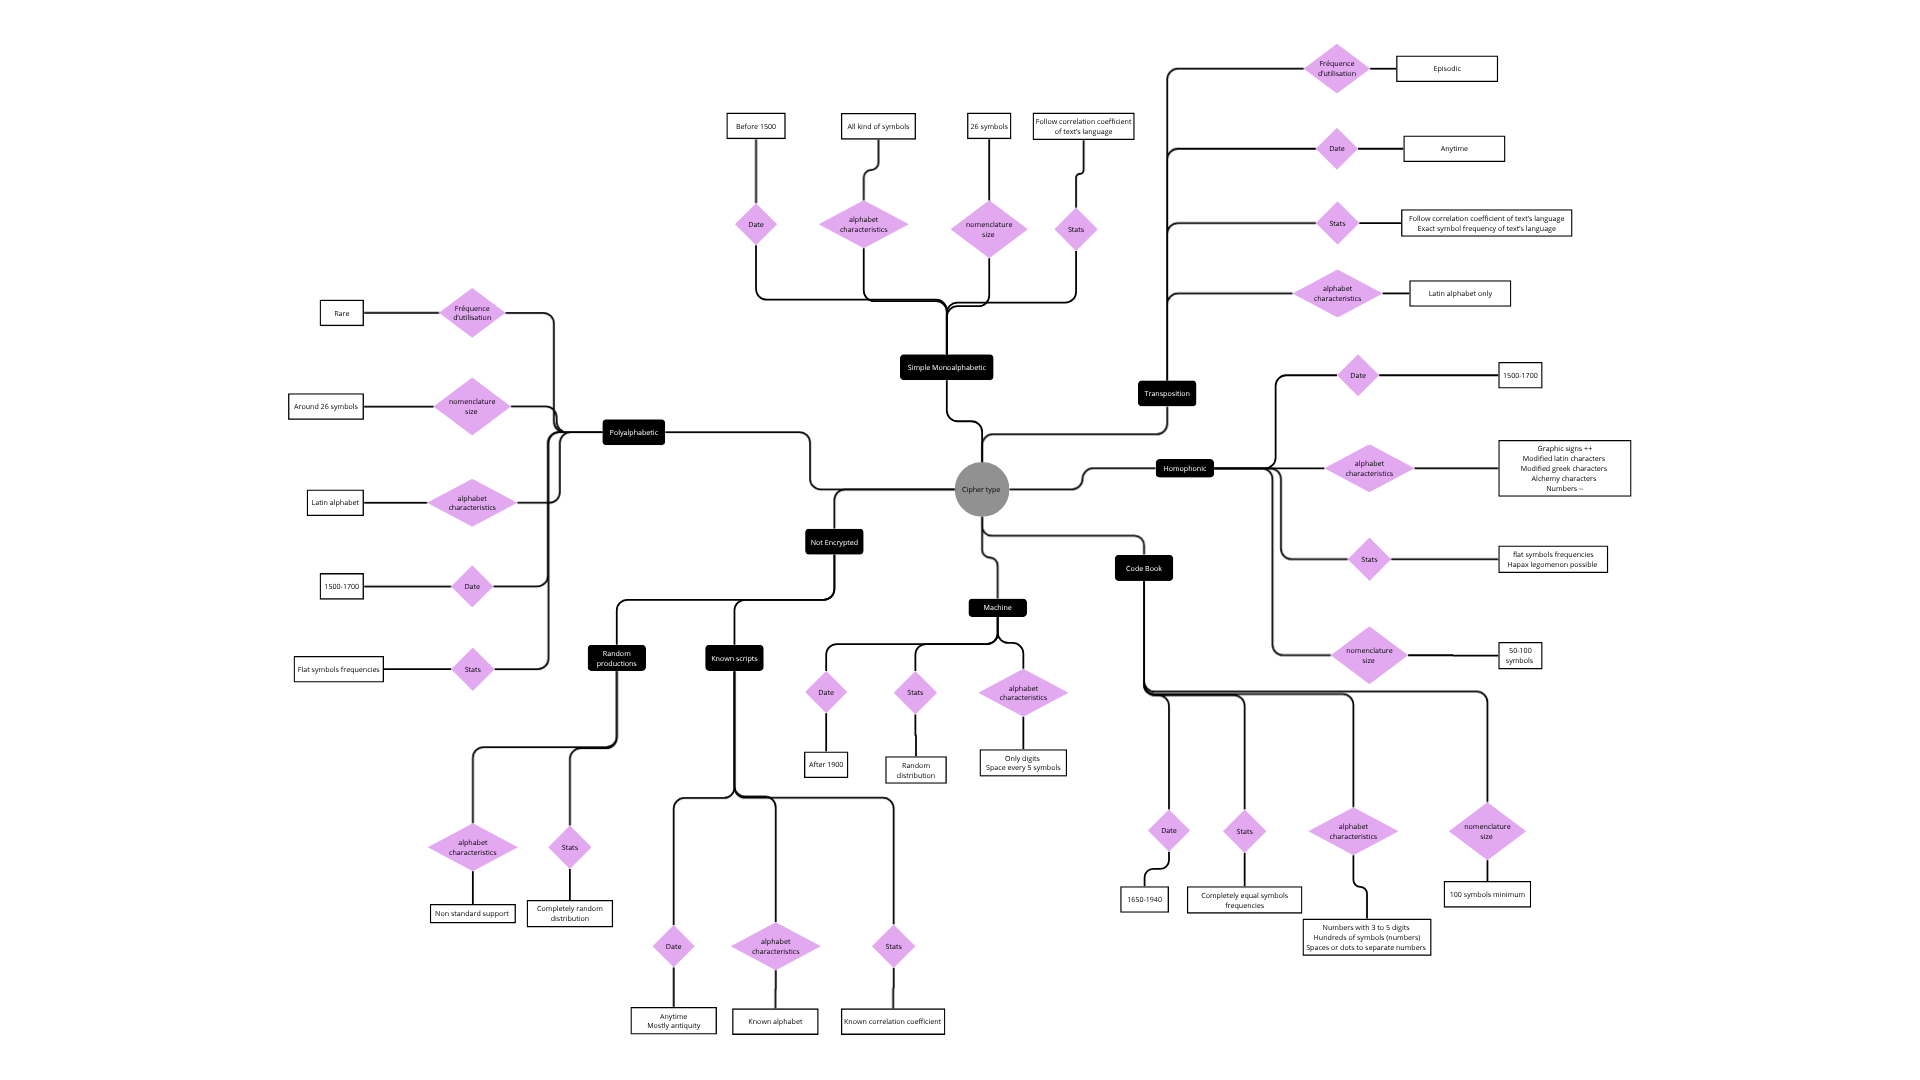
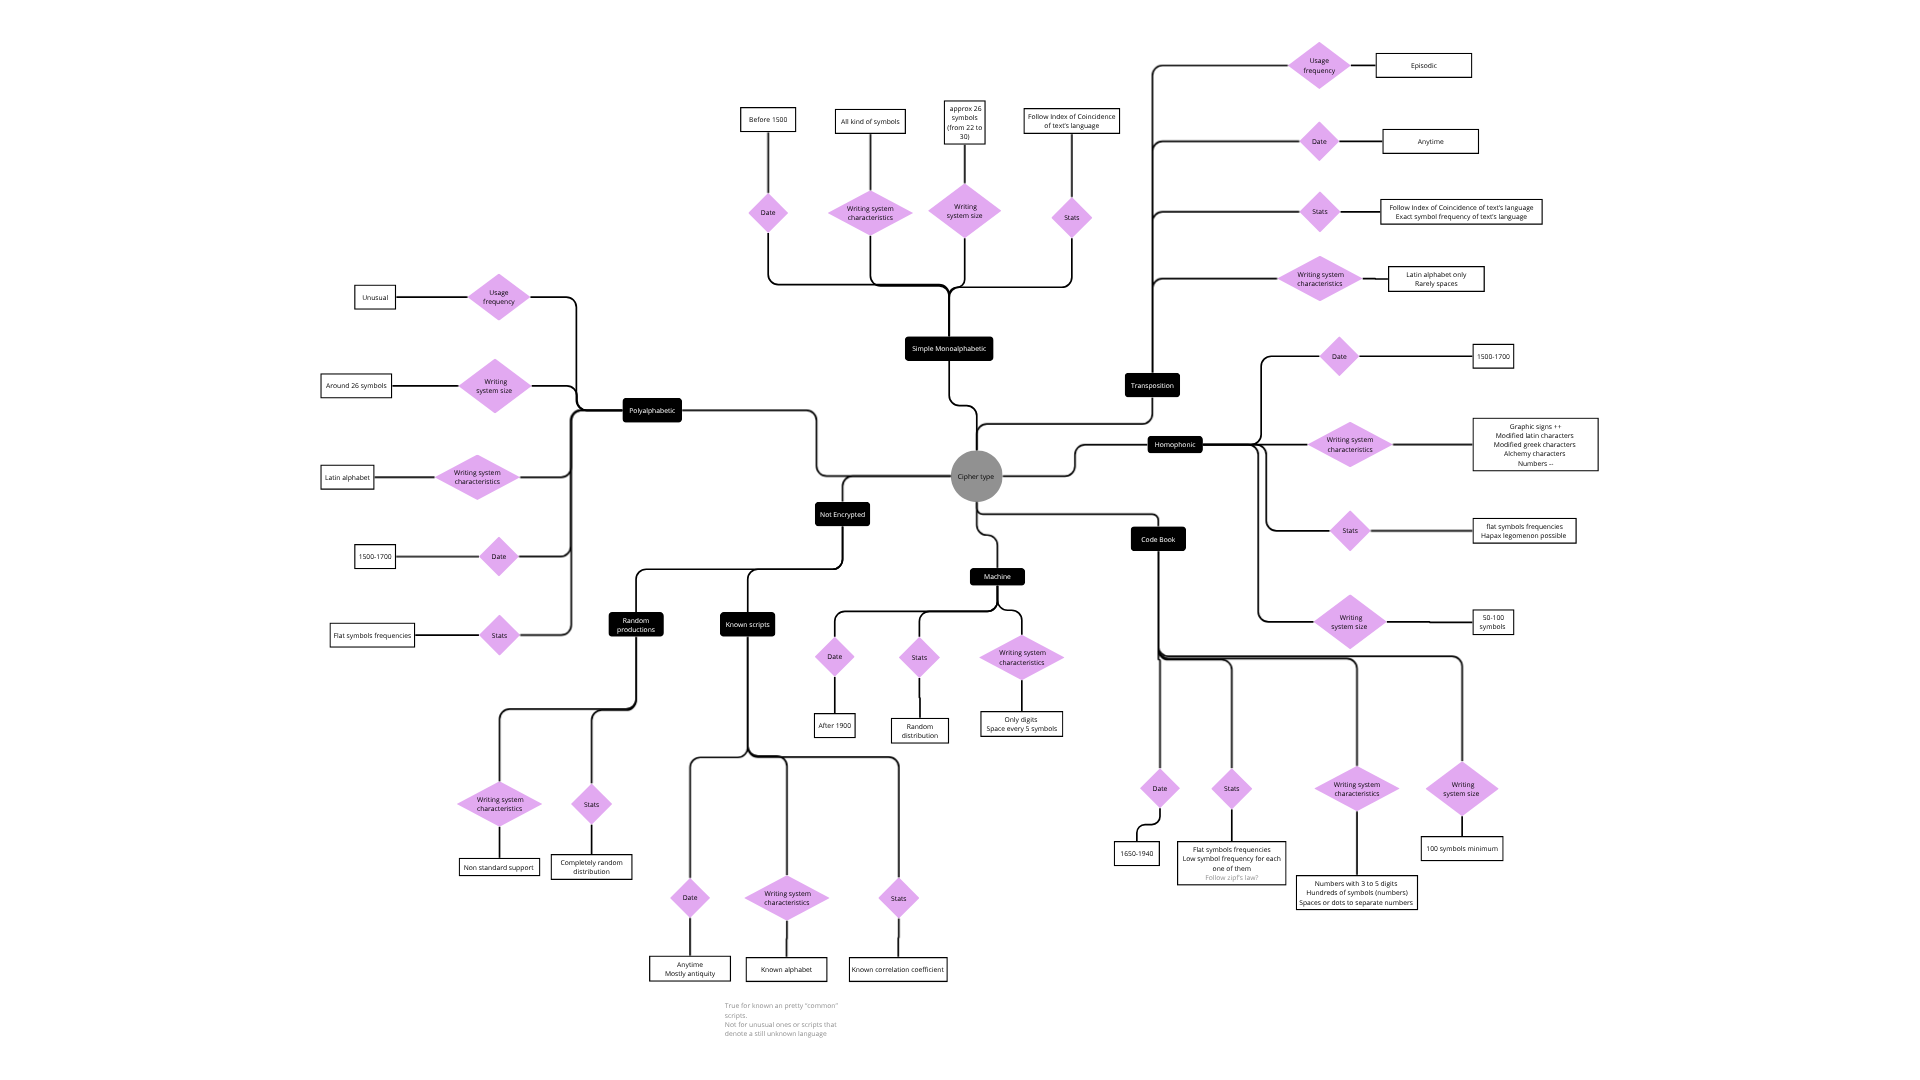
FEAT: README update. ontology graph

diff --git a/README.md b/README.md
@@ -62,7 +62,7 @@ Outputs of preprocessing feed into two vector types:
   These features were definded from expert knowledge represented into this ontology like representation: 
 
 <img src="./schema_ontologie_systeme_chiffrement.png" alt="shema_ontology_cipher_type"/>
-  
+
 
 - **Vector Image**
 
@@ -88,7 +88,7 @@ Outputs of preprocessing feed into two vector types:
 
 => Hidden Layer
 
-- Activation function: **ReLU or Tanh**
+- Activation function: **ReLU**
 
 ### Finalization
 
